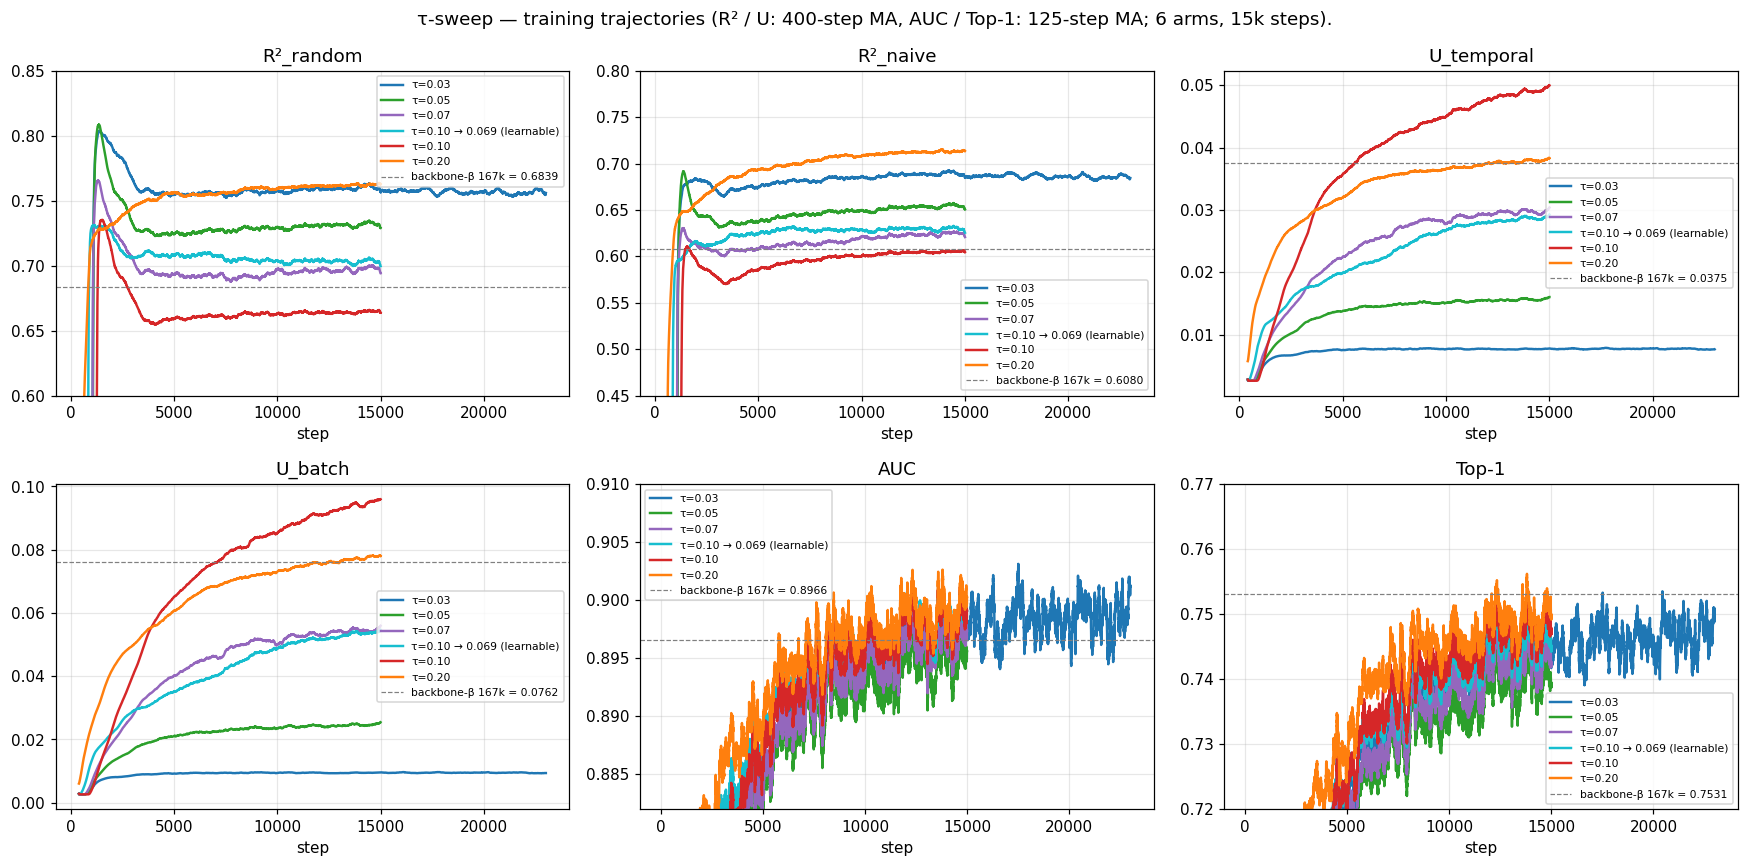
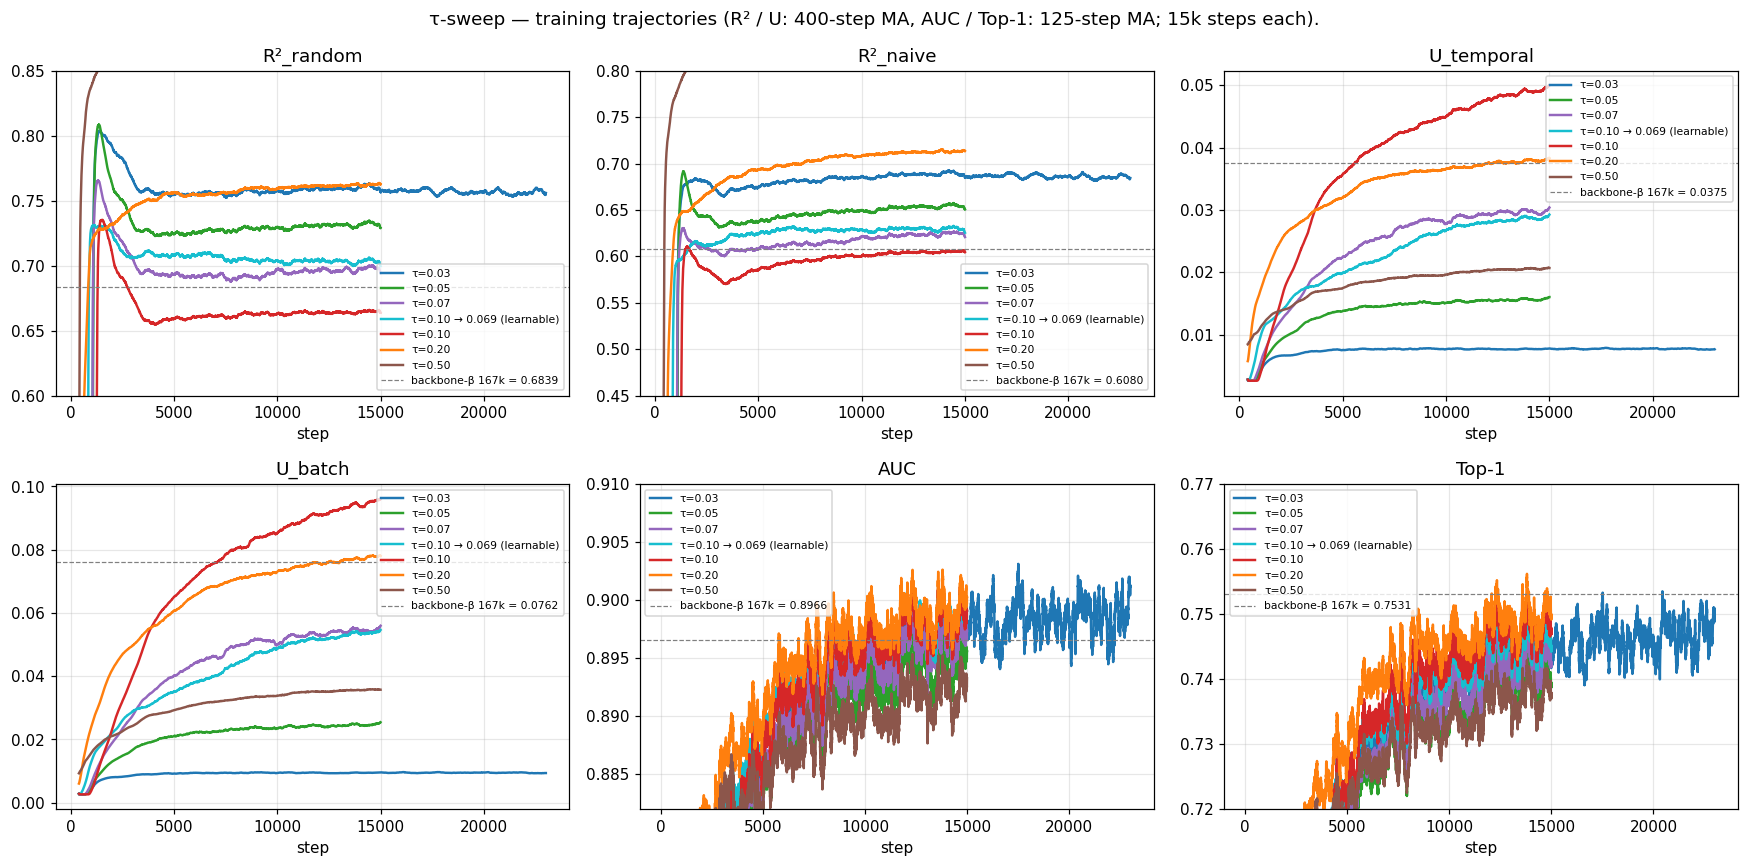
plot(tau-sweep): trajectory plot now includes τ=0.30, 0.50, 0.80
All three extension arms have completed 15k steps and synced their
trajectory CSVs locally. plot_tau_sweep_v2.py was already wired for the
9 arms (PR #216); just re-rendering produces the updated plot.

Soft side reads cleanly: τ=0.80 R²_random is the top trajectory,
τ=0.50 next, τ=0.30 next, then τ=0.20 — the soft-τ improvement on R²
keeps going past 0.20. AUC and Top-1 are crowded but the cluster
sitting above the sharper-τ pack now extends out to τ=0.50 and 0.80.

Title updated: "6 arms" → "9 arms" (drops the explicit count to be
robust to future additions).

Held-out box-error plot still shows the original 7 backbones — eval
at N=50 across all 11 backbones is currently running (PID 347397) and
will be PR'd separately when it lands.

«Agent Opus 4.7 (1M context) writing»

diff --git a/experiments/2026-05-08_exp_tau_sweep/scripts/plot_tau_sweep_v2.py b/experiments/2026-05-08_exp_tau_sweep/scripts/plot_tau_sweep_v2.py
@@ -128,7 +128,7 @@ def main() -> None:
         ax.legend(loc="best", fontsize=7)
     fig.suptitle(
         "τ-sweep — training trajectories (R² / U: 400-step MA, "
-        "AUC / Top-1: 125-step MA; 6 arms, 15k steps).",
+        "AUC / Top-1: 125-step MA; 15k steps each).",
         fontsize=12)
     fig.tight_layout()
     fig.savefig(OUT_TRAJ, dpi=110, bbox_inches="tight")
